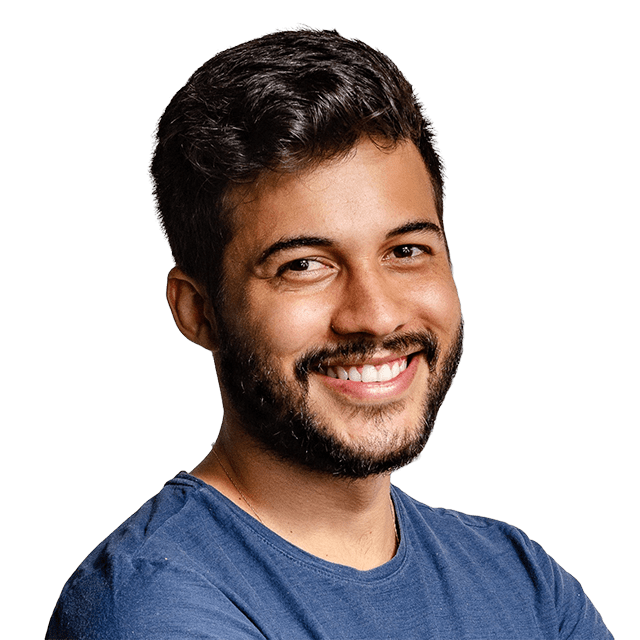
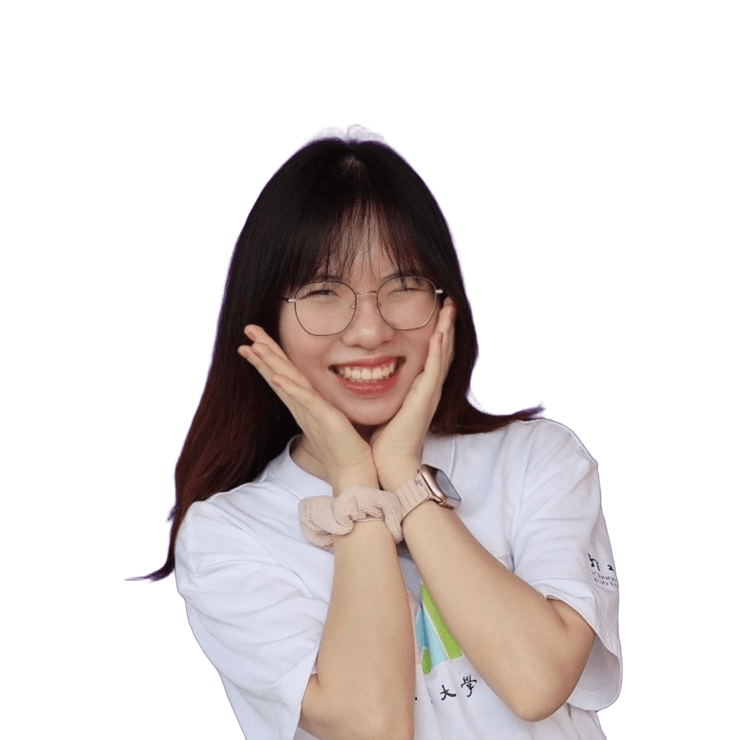
Refresh portfolio branding and homepage layout
Updated the site identity and homepage content to reflect Chompunick's personal profile, including author metadata, landing page title, and a revised profile intro/icon. Added a custom home-layout head partial to widen desktop homepage sections and improve section heading layouts, while removing the unused slides logo asset.

diff --git a/layouts/_partials/hooks/head-end/home-layout.html b/layouts/_partials/hooks/head-end/home-layout.html
@@ -1,0 +1,43 @@
+{{ if .IsHome }}
+<style>
+  /* Give the homepage room on desktop without changing article reading widths. */
+  @media (min-width: 1024px) {
+    .hbb-section {
+      --home-content-width: 92%;
+    }
+
+    #section-resume-biography-3 .resume-biography > .max-w-7xl,
+    .hbb-section > .max-w-prose,
+    #projects .container {
+      width: var(--home-content-width);
+      max-width: none;
+      margin-inline: auto;
+    }
+
+    #section-resume-biography-3 .prose {
+      max-width: 85ch;
+    }
+
+    /* A heading column spreads sections across the screen while keeping
+       paragraphs comfortable to read. Mobile retains the theme's stacking. */
+    :is(#research, #research-experience, #learning, #education, #activities)
+      > .max-w-prose {
+      display: grid;
+      grid-template-columns: minmax(0, 1fr) minmax(0, 2fr);
+      align-items: start;
+      gap: clamp(2rem, 5vw, 6rem);
+    }
+
+    :is(#research, #research-experience, #learning, #education, #activities)
+      > .max-w-prose > .prose {
+      width: 100%;
+      max-width: 85ch;
+      min-width: 0;
+    }
+
+    #skills > .grid {
+      gap: 3rem;
+    }
+  }
+</style>
+{{ end }}

diff --git a/content/authors/_index.md b/content/authors/_index.md
@@ -5,7 +5,7 @@ first_name: Chompunick
 last_name: Chieng
 
 status:
-  icon: 🤖
+  icon: 🍊
 
 role: Electrical & Computer Engineering Undergraduate
 
@@ -54,7 +54,7 @@ social:
     link: https://github.com/nAnAowob
 ---
 
-Hi! I'm AnnAnn 👋
+Hi! I'm AnnAnn
 
 I'm a second-year Electrical and Computer Engineering student at
 CUHK-Shenzhen in the Computer Engineering stream.

diff --git a/content/_index.md b/content/_index.md
@@ -1,5 +1,5 @@
 ---
-title: ''
+title: 'Chompunick CHIENG'
 summary: 'Personal academic portfolio of Chompunick "AnnAnn" Chieng, an Electrical and Computer Engineering undergraduate at CUHK-Shenzhen exploring robotics, embedded systems, hardware, and software.'
 date: 2026-09-12
 type: landing
